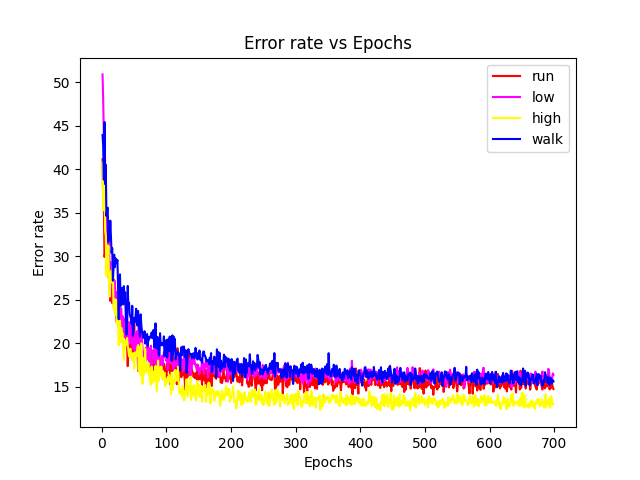
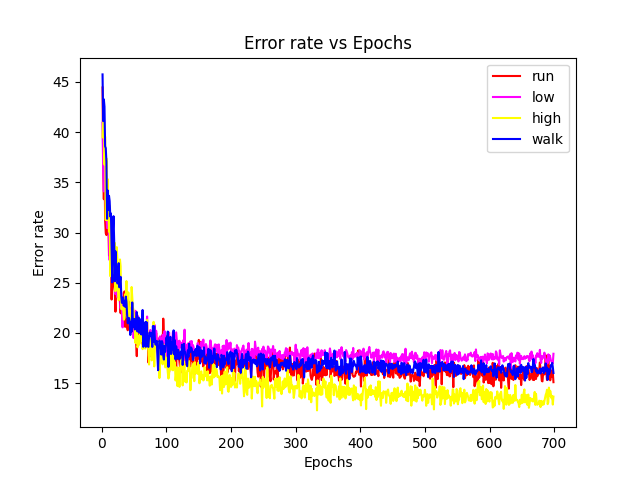
result 1

diff --git a/CNN_Recurrent.py b/CNN_Recurrent.py
@@ -235,7 +235,7 @@ class RCNN(nn.Module):
         self.cv4_out = int(((self.cv3_out - self.cv4_k)/self.cv4_s) + 1)
     
         self.layer_1 = nn.Sequential(
-          nn.Conv1d(in_channels=1, out_channels=5, kernel_size=(self.cv1_k), stride=(self.cv1_s)),
+          nn.Conv1d(in_channels=1, out_channels=3, kernel_size=(self.cv1_k), stride=(self.cv1_s)),
           nn.BatchNorm1d(num_features=3),
           nn.ReLU(inplace=True),
           nn.AvgPool1d(kernel_size=1)
